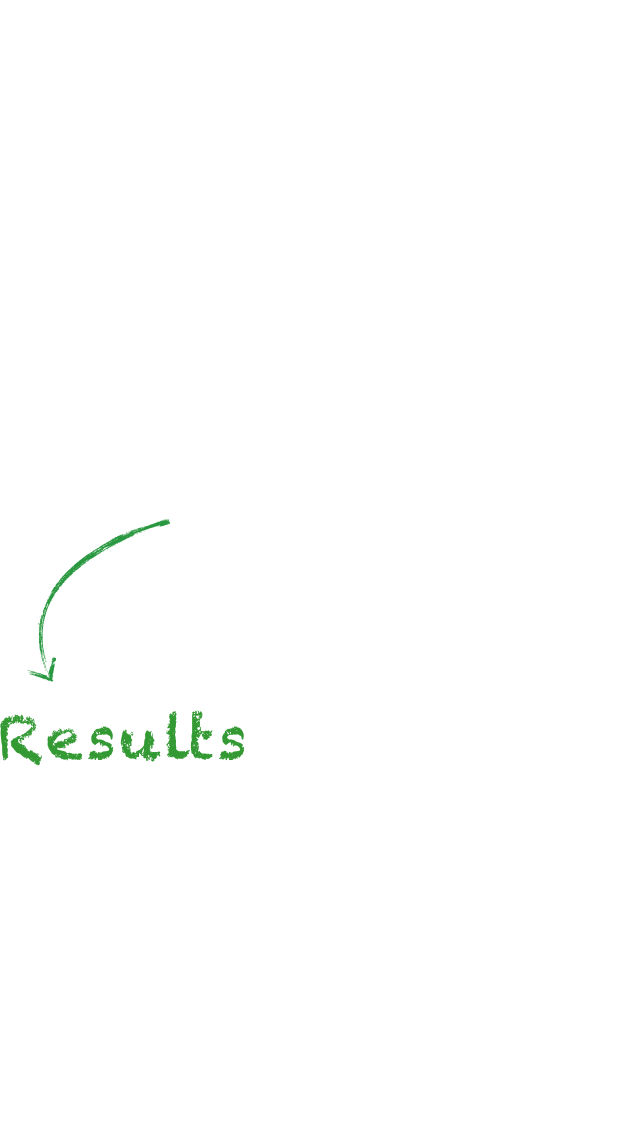
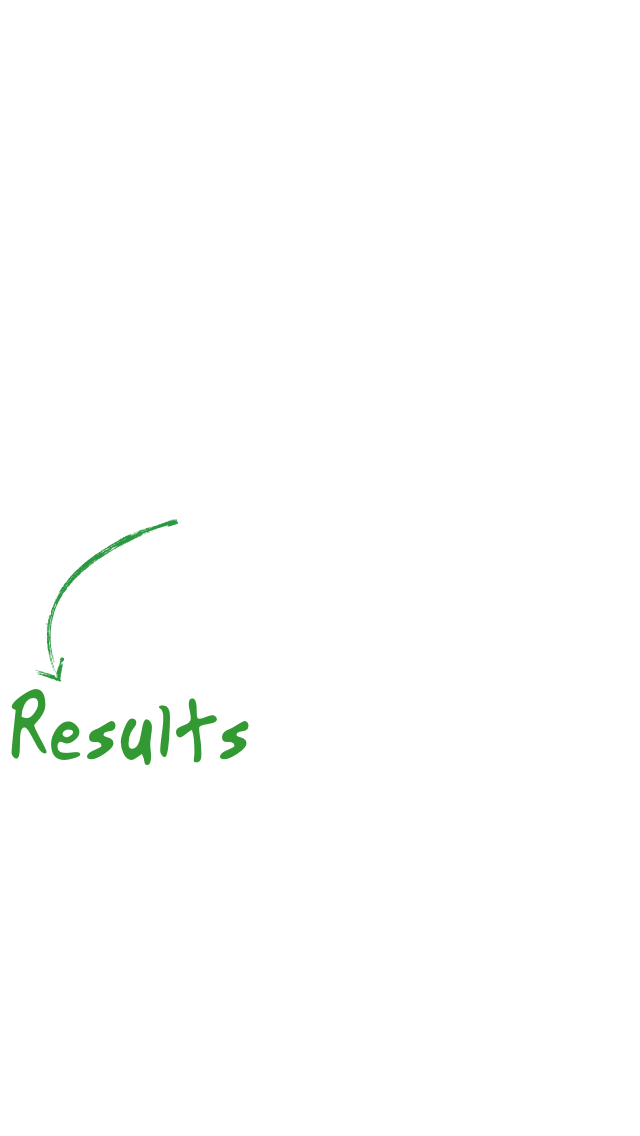
Prep for Visualization Data, Change of Tutorial Font, slight changes in splash screens

Changed region(s): [[0.0, 0.4621, 0.4062, 0.6778], [0.25, 0.4313, 0.2812, 0.4621]]

diff --git a/www/index.html b/www/index.html
@@ -9,7 +9,7 @@
 		<link rel="stylesheet" type="text/css" href="css/main.css" />
 		<link rel="stylesheet" type="text/css" href="css/retina.css" media="only screen and (-webkit-min-device-pixel-ratio: 2)" />
 
-		<title>BETmatic</title>
+		<title>BEATmatic</title>
 	</head>
 	<body>
 	<div id="ui" class="ui">
@@ -82,6 +82,7 @@
 	<script type="text/javascript" src="coffee/record.js"></script>
 	<script type="text/javascript" src="coffee/play.js"></script>
 	<script type="text/javascript" src="coffee/dj.js"></script>
+	<script type="text/javascript" src="js/waveformdata.js"></script>
 	
 	</body>
 </html>
